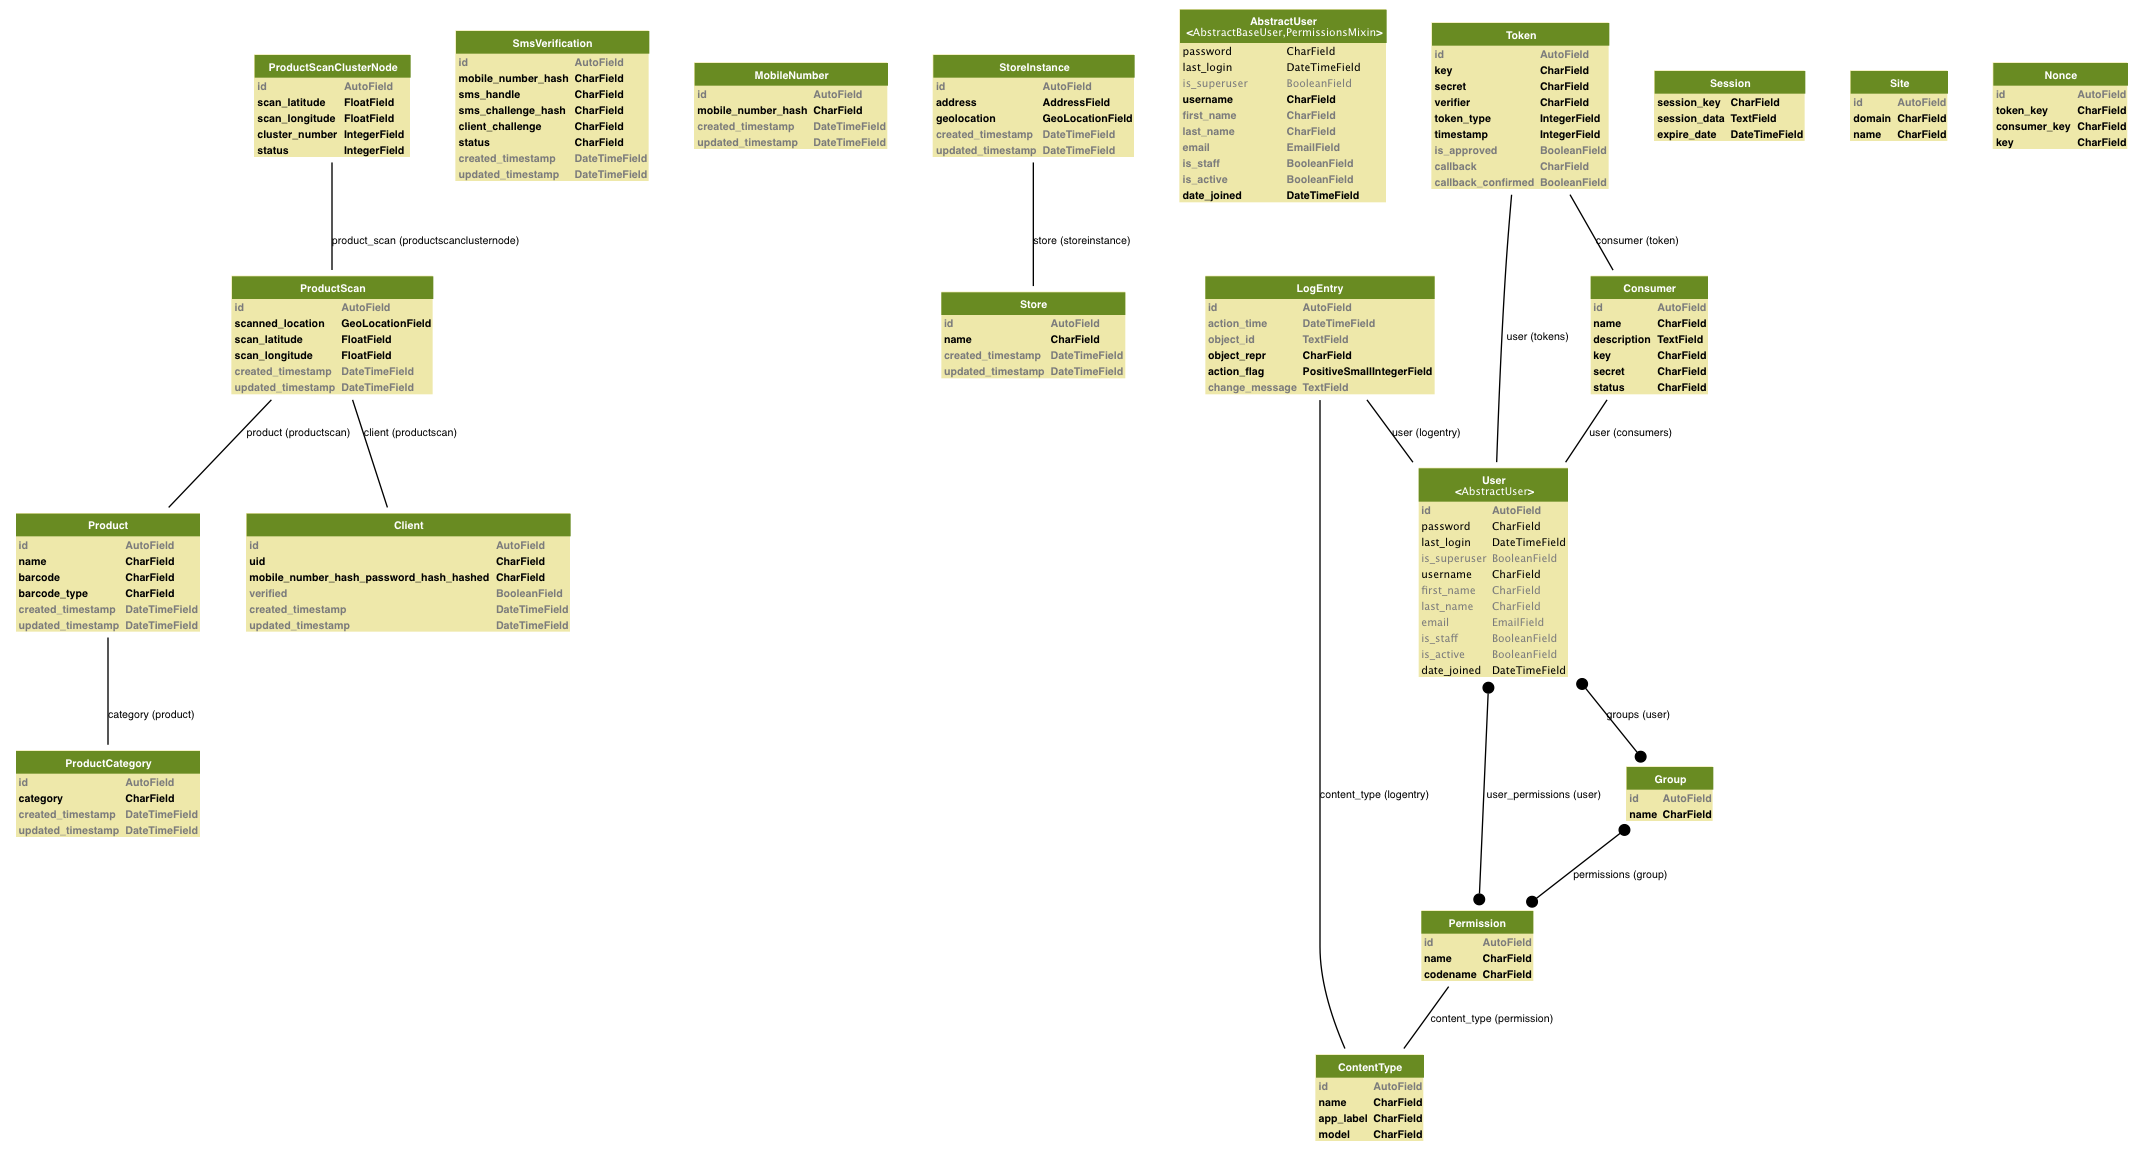
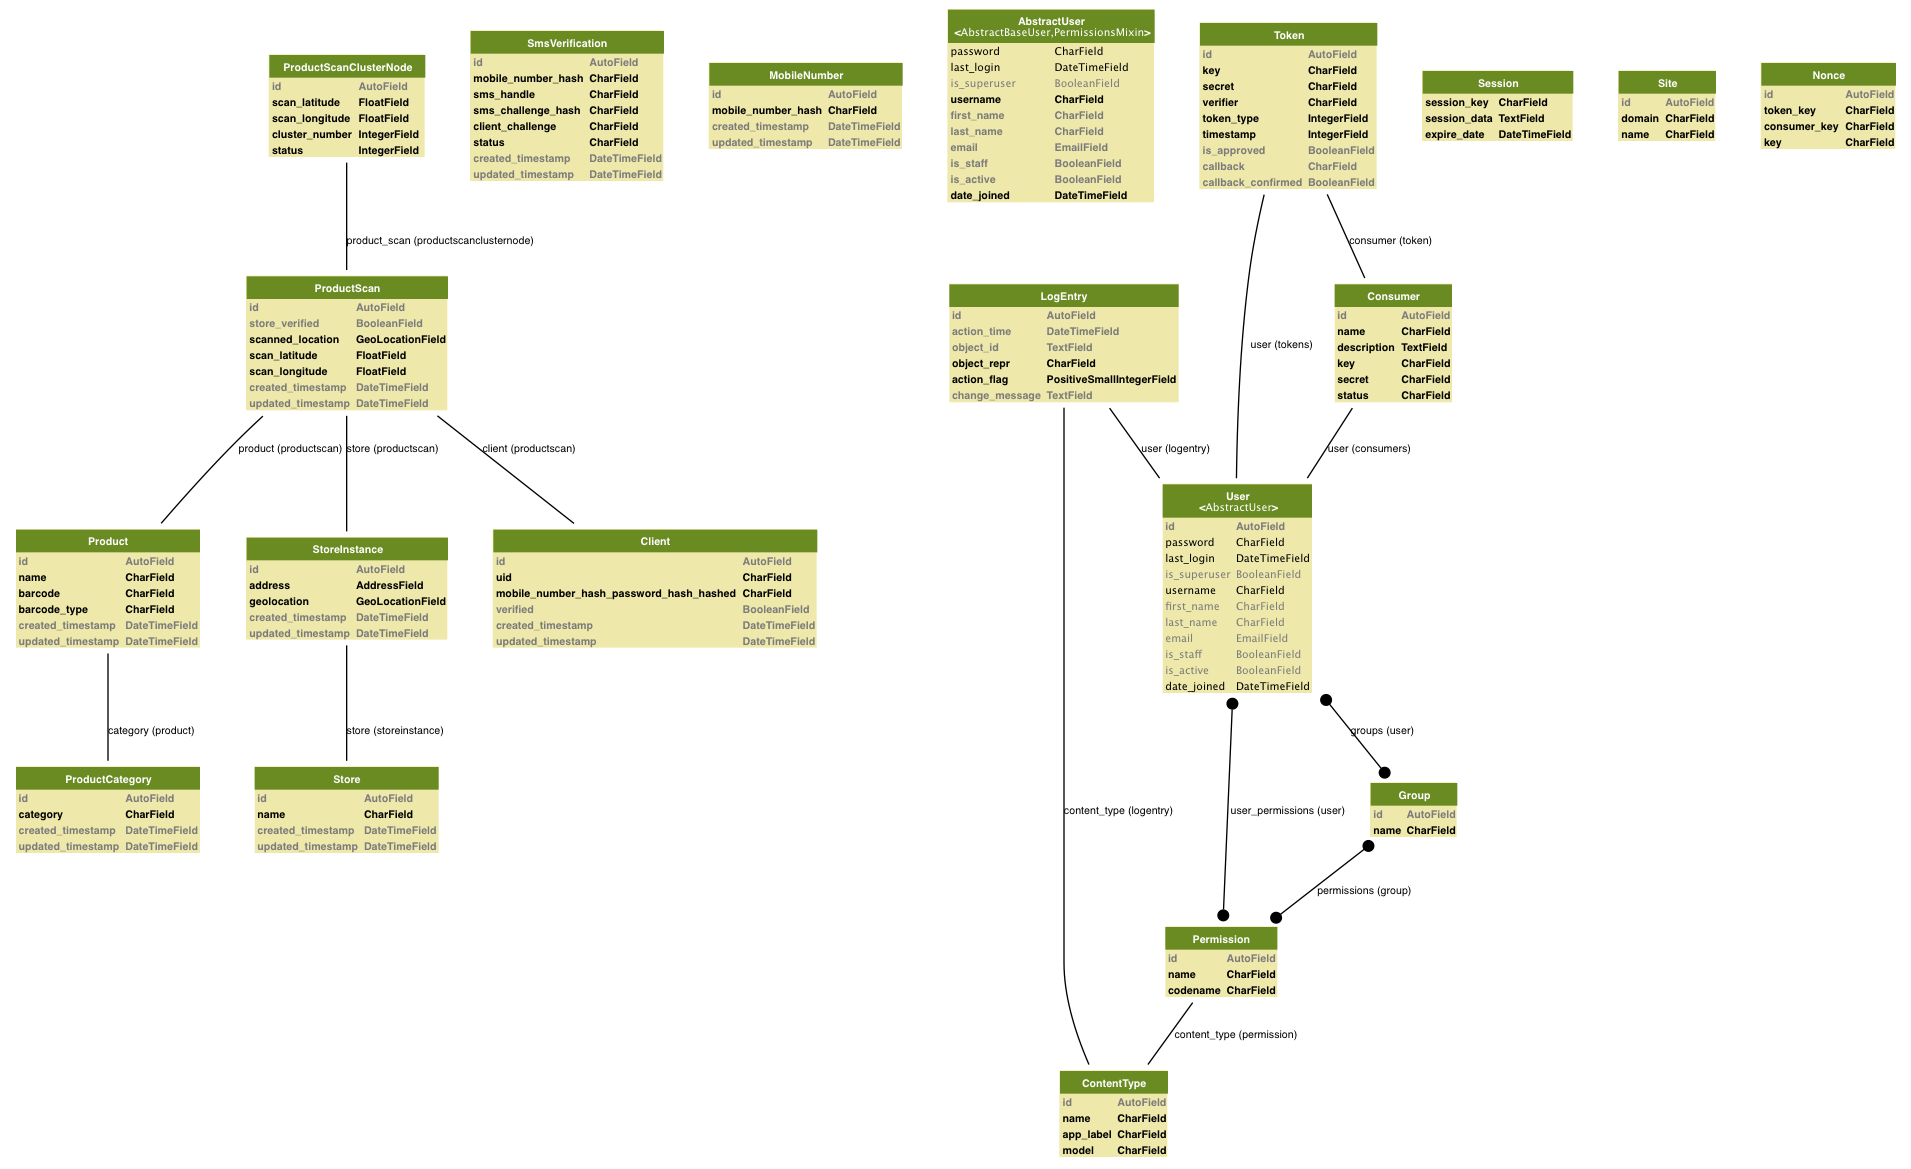
Store attribute on product scan

diff --git a/etiktak/model/products/models.py b/etiktak/model/products/models.py
@@ -29,6 +29,7 @@ from django.db import models
 from django_google_maps import fields as map_fields
 
 from etiktak.model.clients import models as clients
+from etiktak.model.stores import models as stores
 from etiktak.util import util, choices
 
 
@@ -47,7 +48,7 @@ class ProductCategory(models.Model):
         Creates and saves a product category with the specified
         category text.
         """
-        product_category = ProductCategory(category = category)
+        product_category = ProductCategory(category=category)
         product_category.save()
         return product_category
 
@@ -89,6 +90,8 @@ class Product(models.Model):
 
 class ProductScan(models.Model):
     product = models.ForeignKey(Product)
+    store = models.ForeignKey(stores.StoreInstance, null=True)
+    store_verified = models.BooleanField(default=False)
     scanned_location = map_fields.GeoLocationField(max_length=100)
     scan_latitude = models.FloatField()
     scan_longitude = models.FloatField()
@@ -97,21 +100,23 @@ class ProductScan(models.Model):
     updated_timestamp = models.DateTimeField(auto_now=True)
 
     @staticmethod
-    def create_product_scan(product, client, scan_latitude, scan_longitude):
+    def create_product_scan(product=None, store=None, store_verified=False, scan_latitude=None, scan_longitude=None, client=None):
         """
         Creates and saves a product scan location for the specified product, scanned
         location and client and with created timestamp (=scanned timestamp) set to now.
         If client is not verified an exception is raised.
         """
         assert client.verified, "Client attempted to contribute though not verified"
-        scan = ProductScan(product=product, client=client, scanned_location=scan_latitude + ", " + scan_longitude,
+        scan = ProductScan(product=product, store=store, client=client,
+                           store_verified=store_verified,
+                           scanned_location=scan_latitude + ", " + scan_longitude,
                            scan_latitude=scan_latitude, scan_longitude=scan_longitude)
         scan.save()
         ProductScanClusterNode.create_product_scan_cluster_node(product_scan=scan)
         return scan
 
     def __unicode__(self):
-        return u"%s | %s" % (self.scanned_location)
+        return u"%s | %s | %s" % (self.product, self.store, self.scanned_location)
 
     class Meta:
         verbose_name = u"Produktscanning"
@@ -164,7 +169,7 @@ class ProductScanClusterNodeManager(models.Manager):
 
 
 class ProductScanClusterNode(models.Model):
-    product_scan = models.ForeignKey(ProductScan)
+    product_scan = models.ForeignKey(ProductScan, db_index=True)
     scan_latitude = models.FloatField(db_index=True)
     scan_longitude = models.FloatField(db_index=True)
     cluster_number = models.IntegerField(db_index=True)

diff --git a/etiktak/service/product_service.py b/etiktak/service/product_service.py
@@ -33,4 +33,4 @@ def create_product_scan(mobile_number, password, uid, barcode, barcode_type, sca
     client_by_uid = clients.Client.objects.get_by_uid(uid)
     assert client_by_password.uid == client_by_uid.uid, "Incorrect credentials provided"
     product = products.Product.objects.get(barcode=barcode, barcode_type=barcode_type)
-    products.ProductScan.create_product_scan(product, client_by_uid, scan_latitude, scan_longitude)
+    products.ProductScan.create_product_scan(product=product, scan_latitude=scan_latitude, scan_longitude=scan_longitude, client=client_by_uid)
